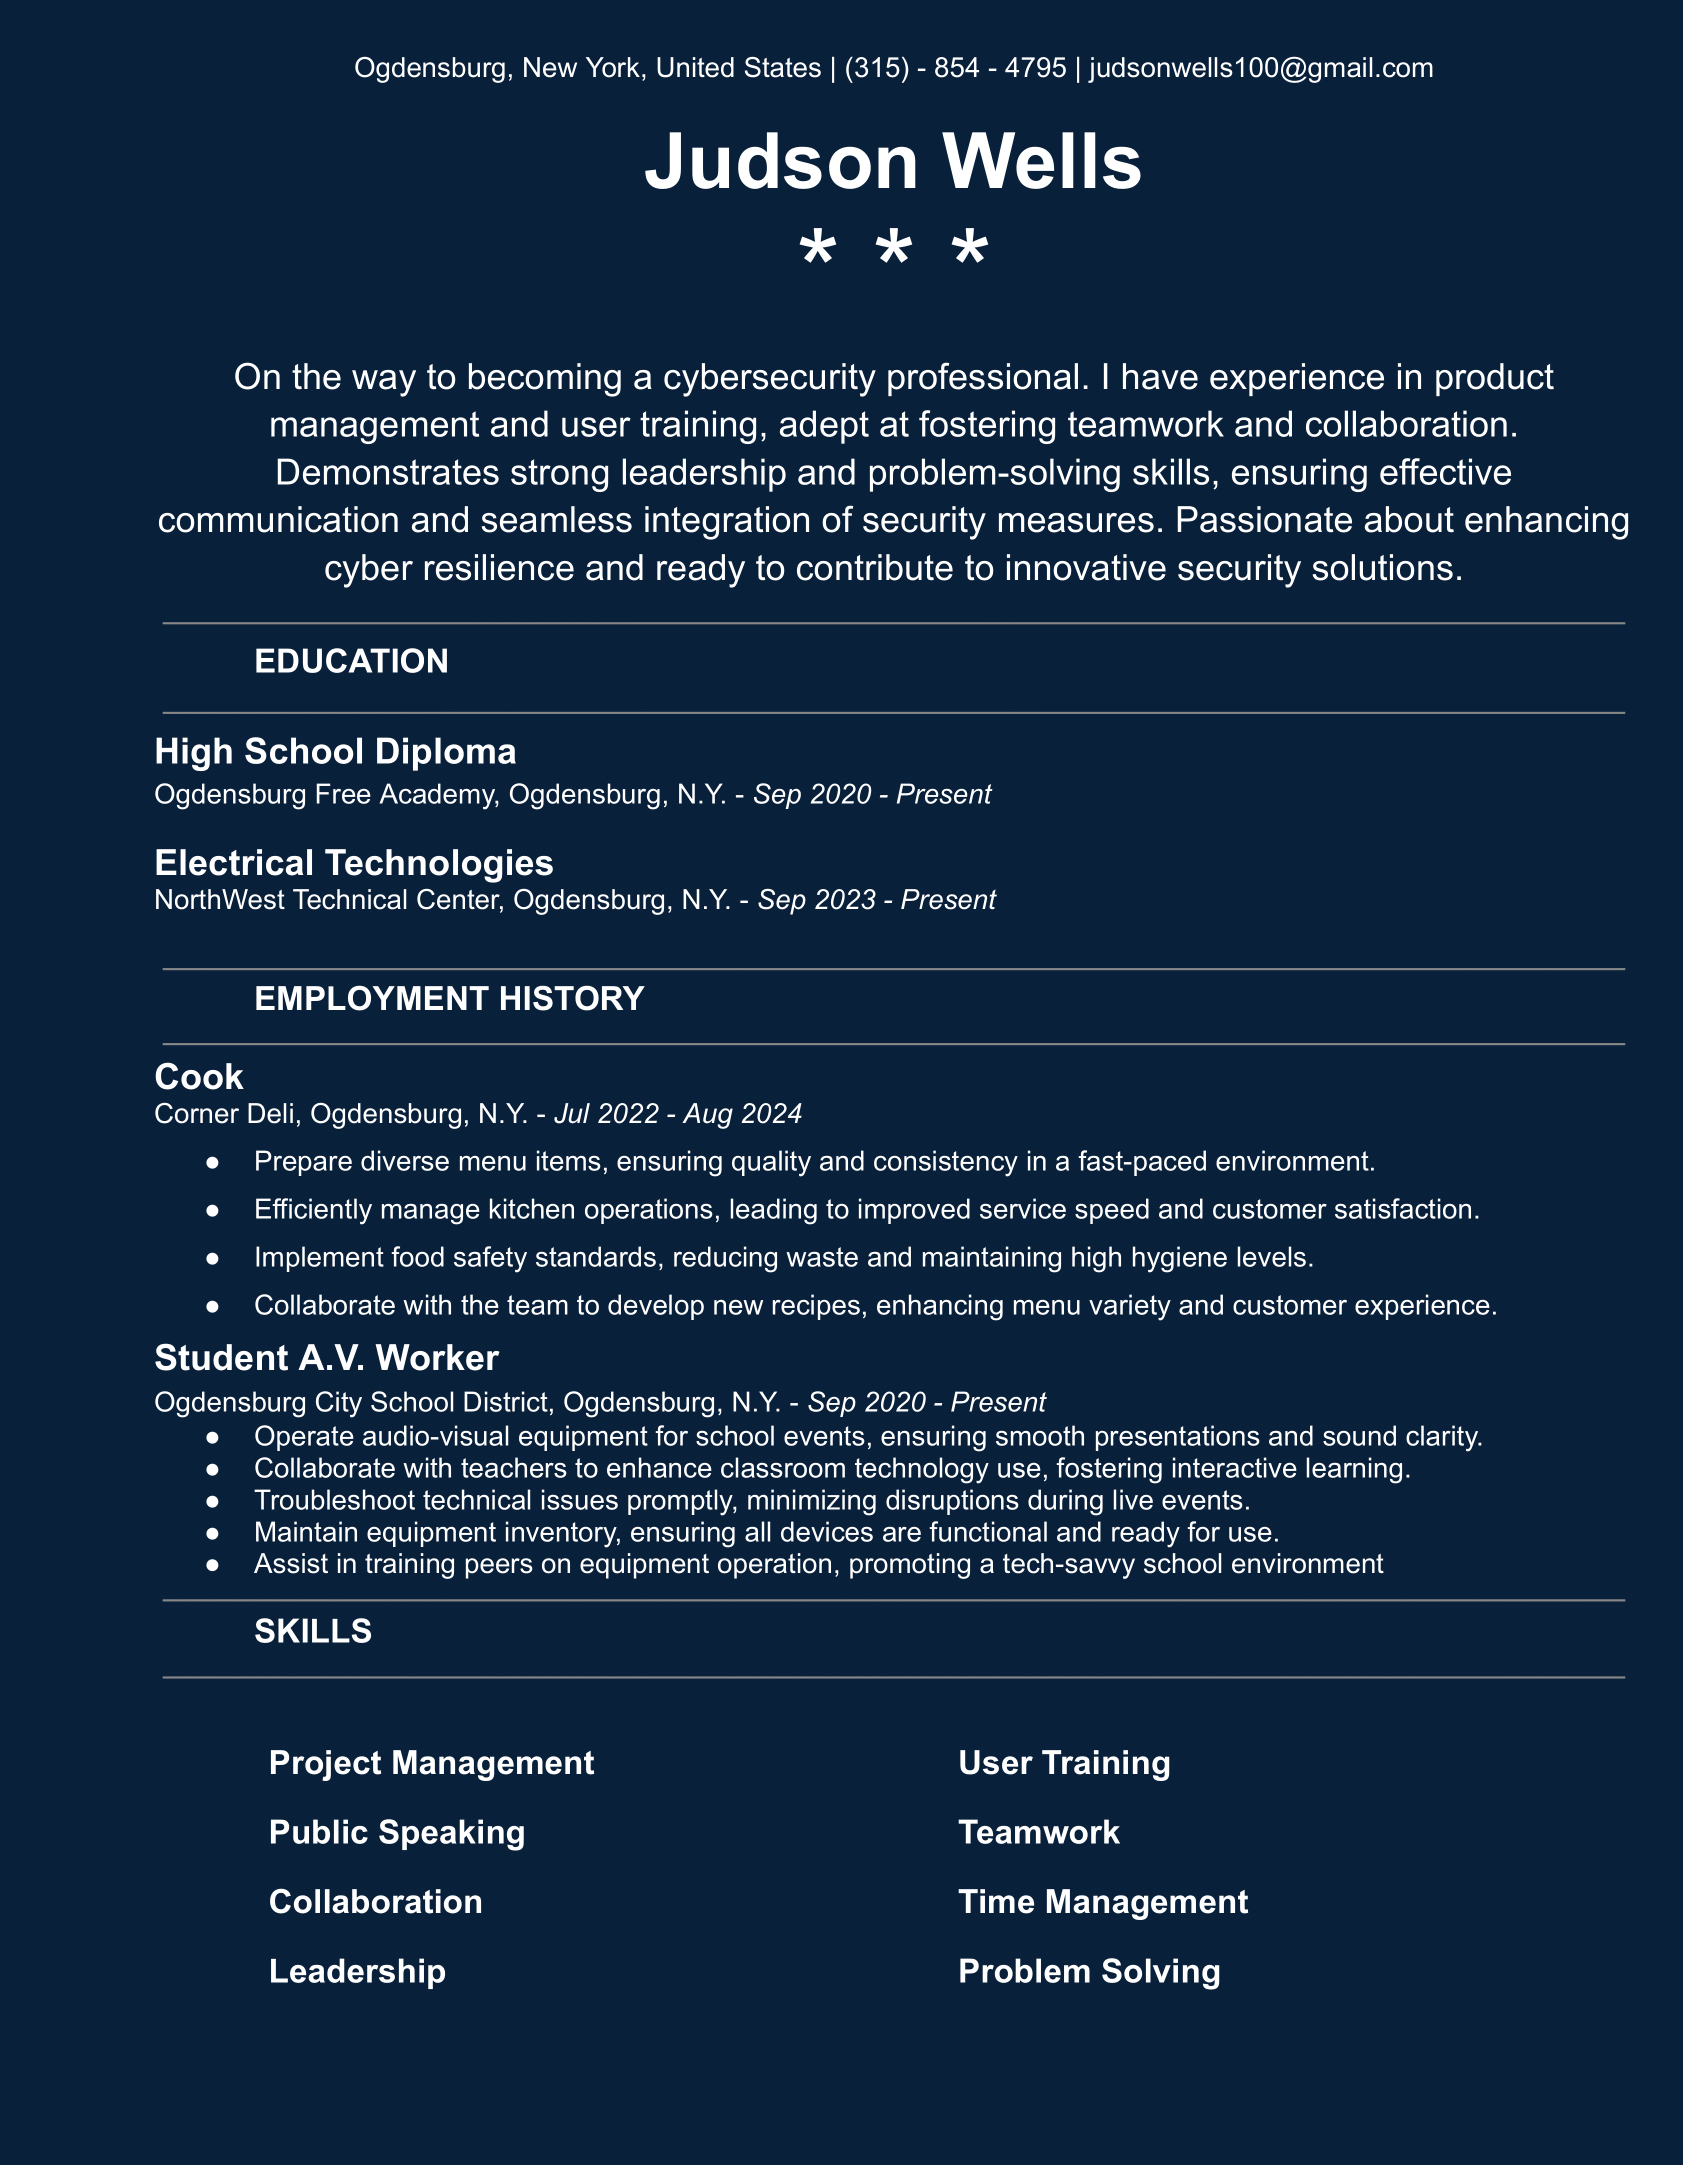
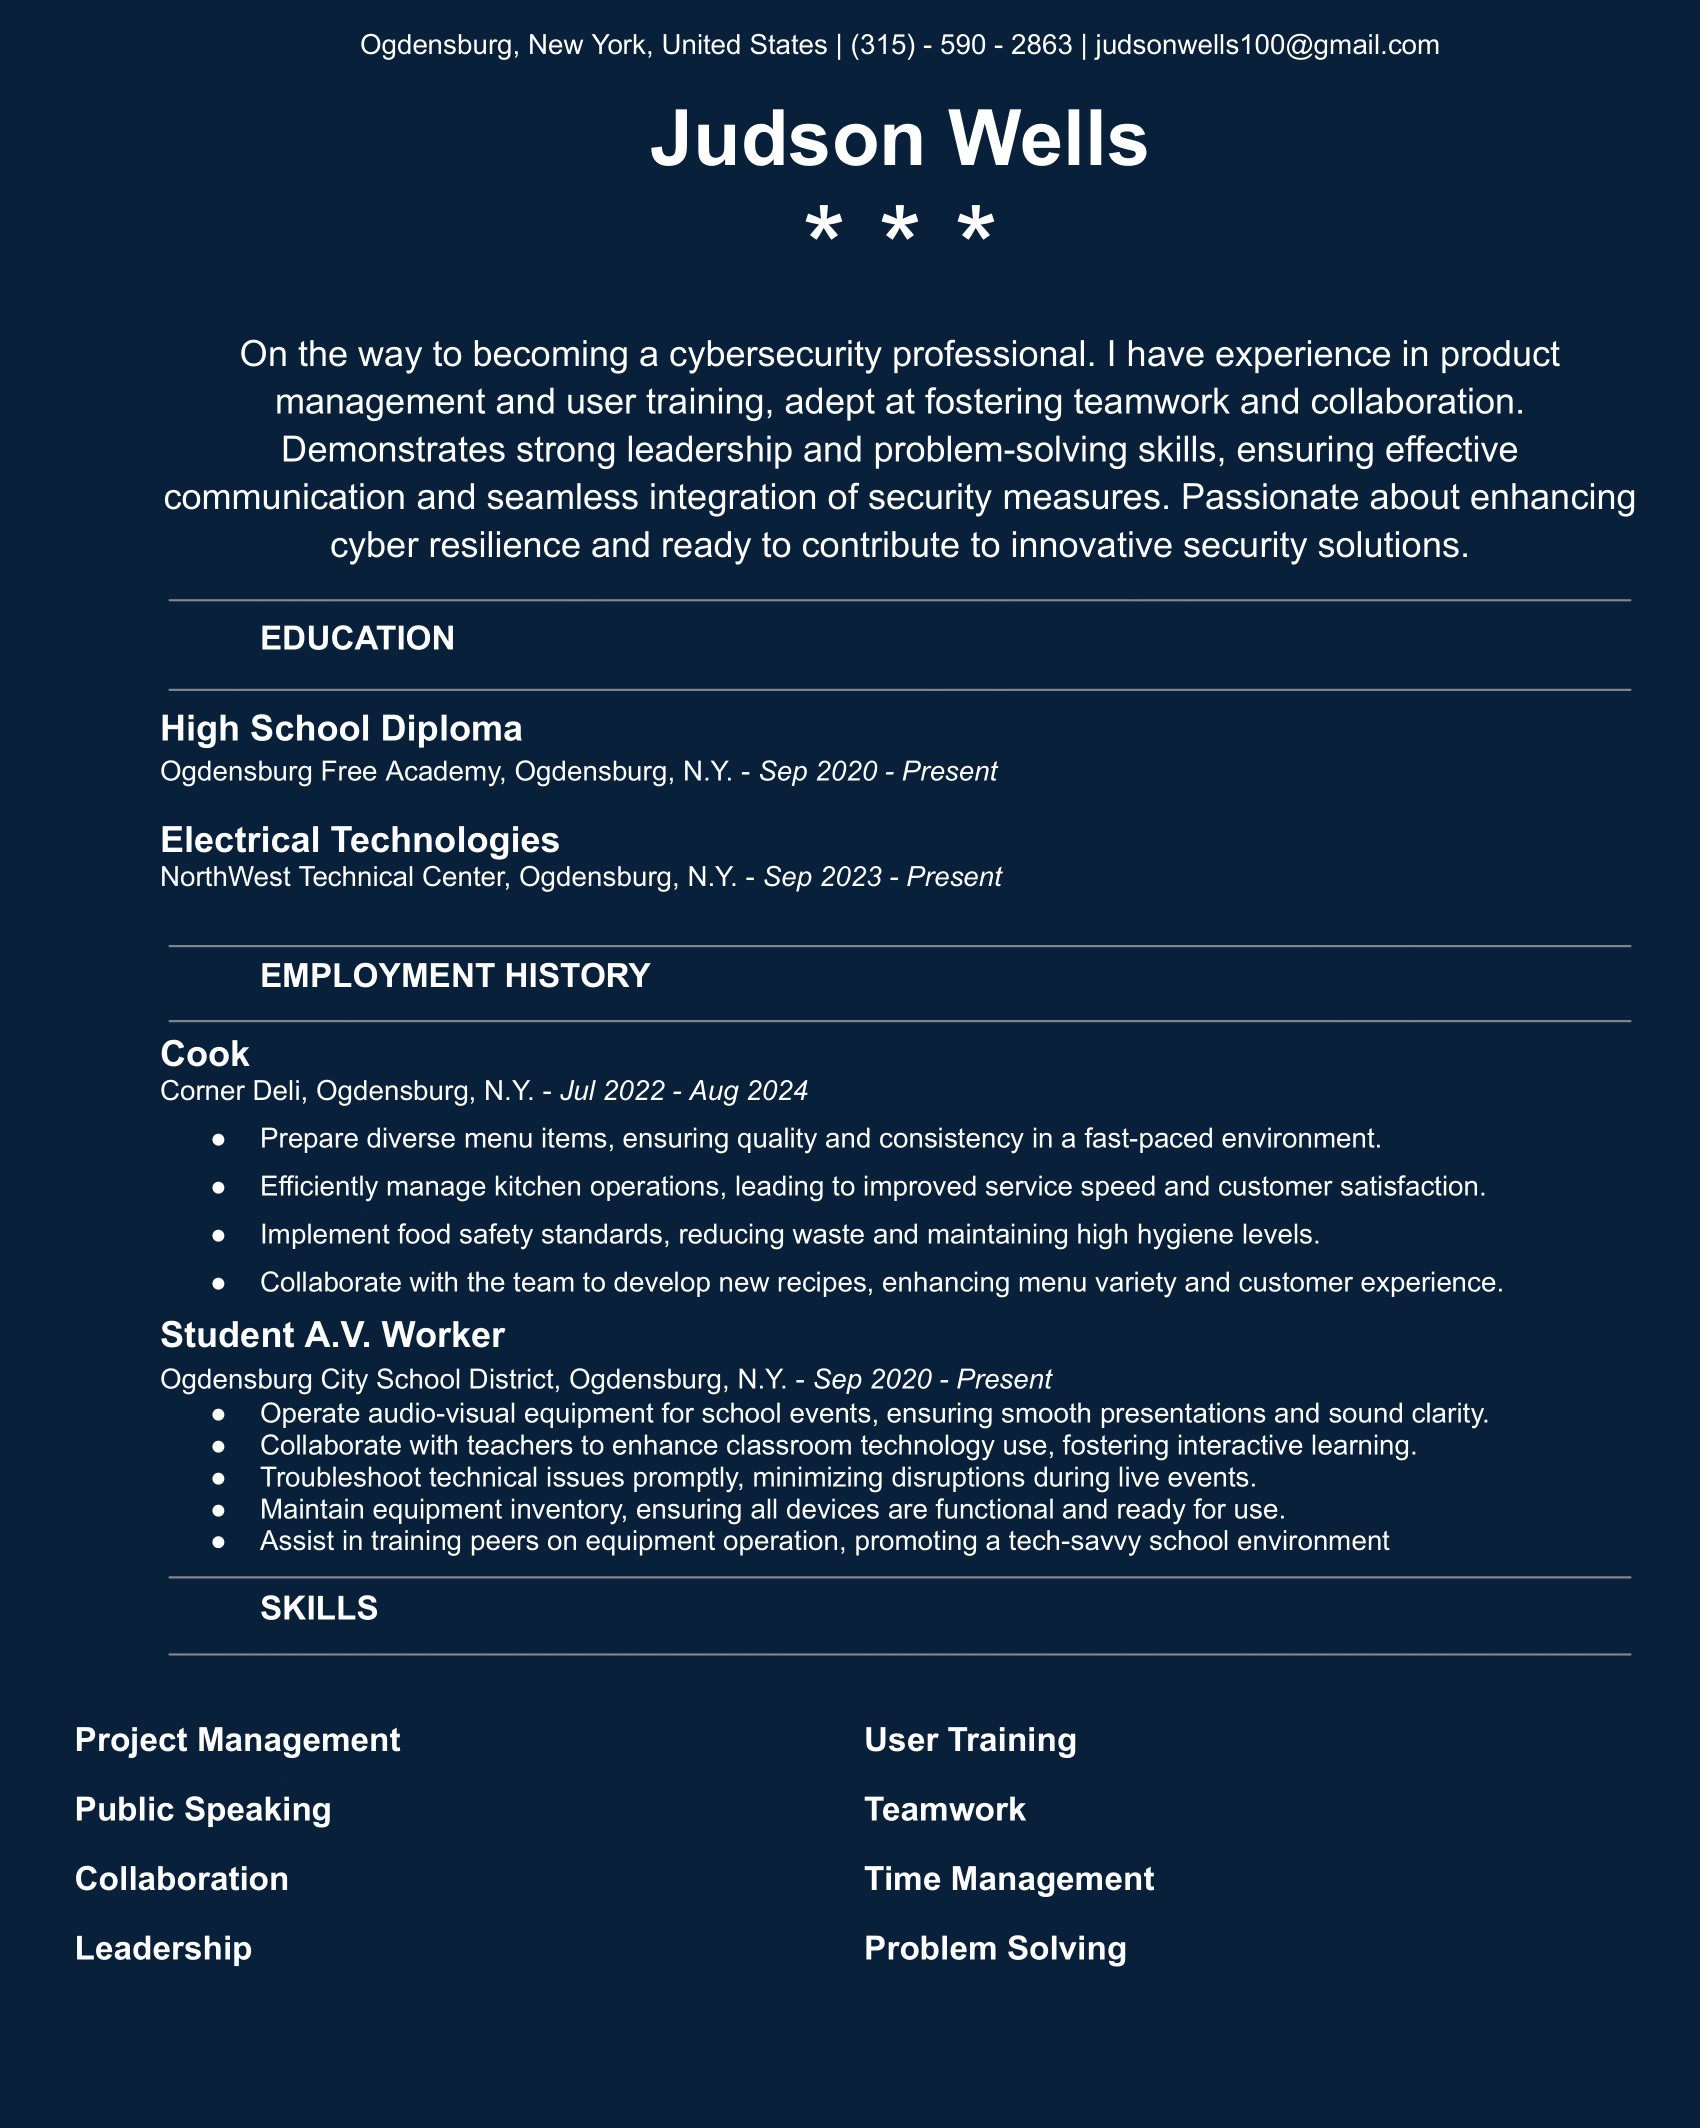
Update resume phone number

diff --git a/assets/css/style.css b/assets/css/style.css
@@ -1194,3 +1194,8 @@ form button:hover {
 .form-inputs {
   border-radius: 10px;
 }
+
+.project-img-4 {
+  width: 25%;
+  height: auto;
+}
